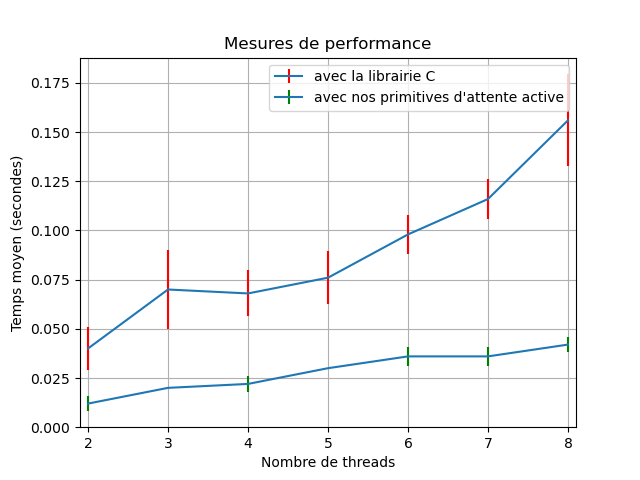
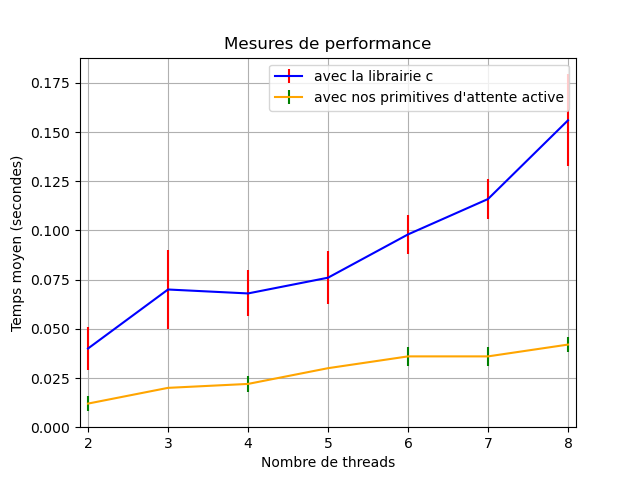
better plots

diff --git a/plot_performance.py b/plot_performance.py
@@ -60,9 +60,9 @@ while curr < len(n) :
 	curr += 1
 	
 # On trace le temps d'exécution en fonction du nombre de threads
-plt.errorbar(n, t_moy, yerr=ecart_type, color='blue', ecolor='red', label="verrou TnS")
+plt.errorbar(n, t_moy, yerr=ecart_type, color='blue', ecolor='red', label="avec la librairie c")
 
-plt.errorbar(n, t_moybis, yerr=ecart_typebis, color='orange', ecolor='green', label="verrou TnTnS")
+plt.errorbar(n, t_moybis, yerr=ecart_typebis, color='orange', ecolor='green', label="avec nos primitives d'attente active")
 
 plt.legend()
 
